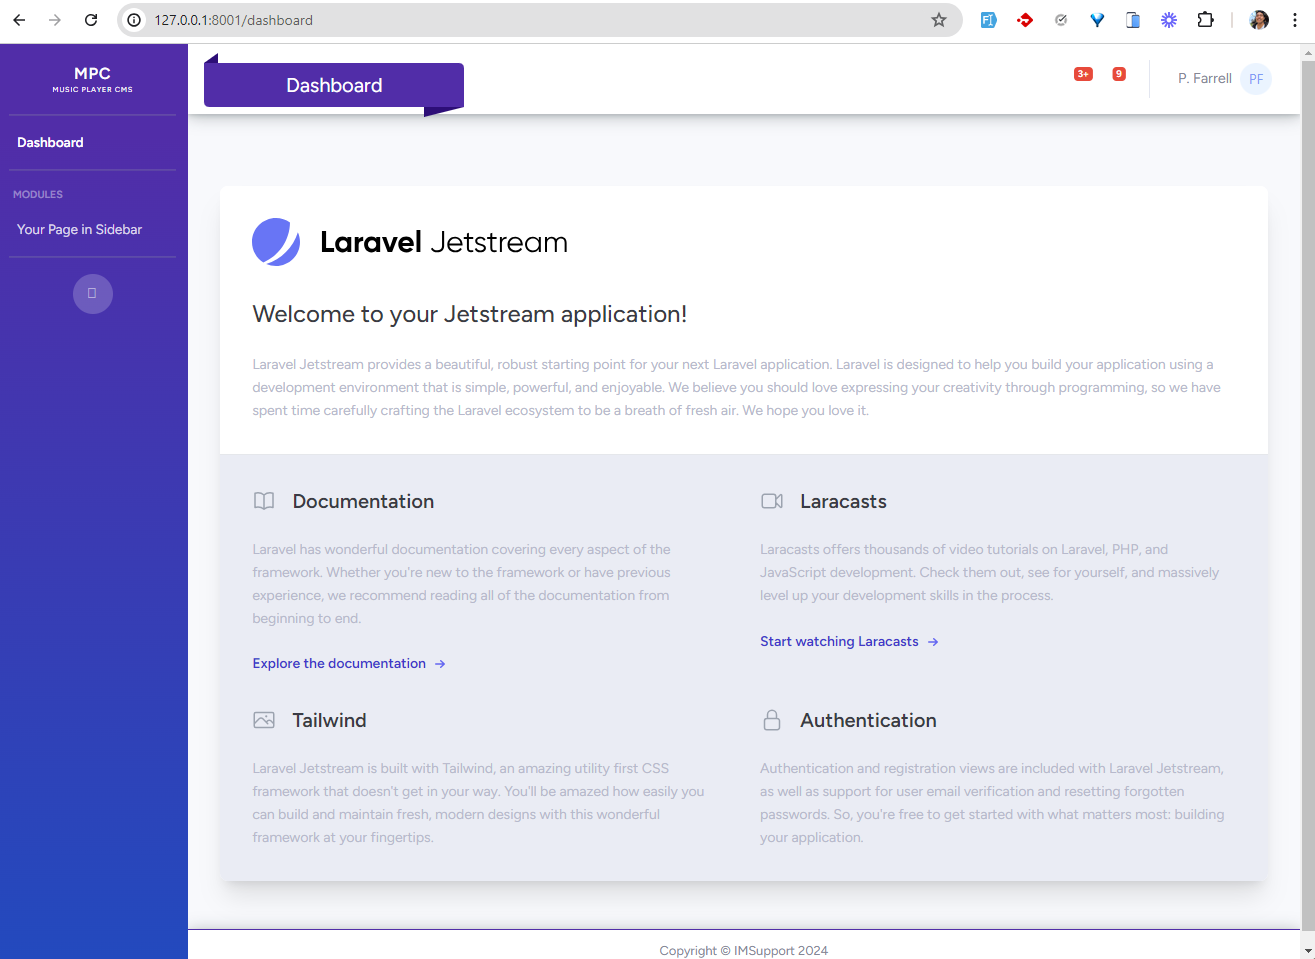
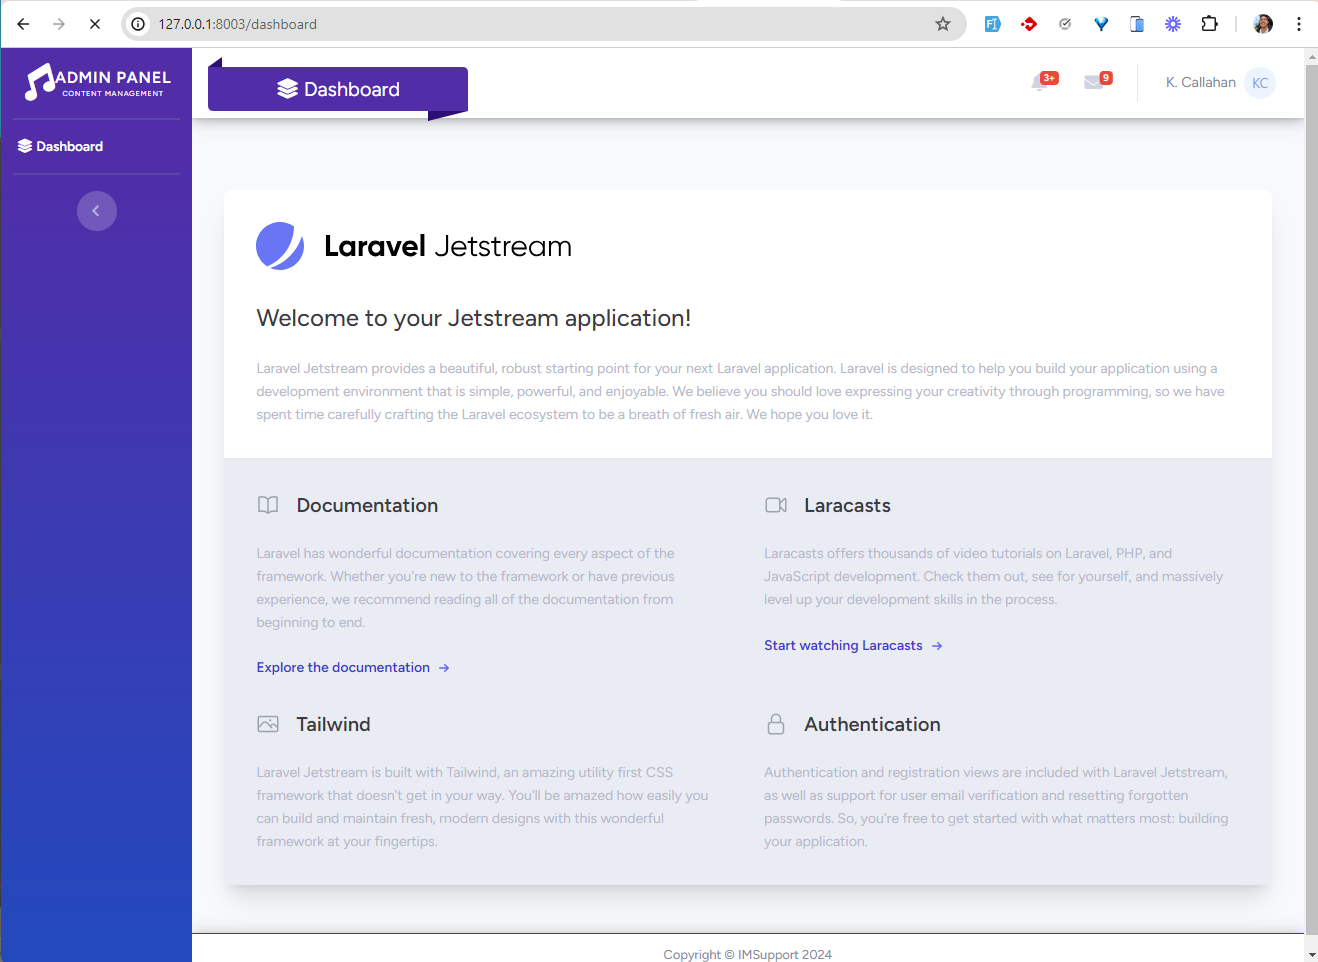
.

diff --git a/resources/Layouts/SidebarLayout.vue b/resources/Layouts/SidebarLayout.vue
@@ -6,7 +6,7 @@
         <div class="sidebar-brand-icon rotate-n-15">
             <i class="fa-solid fa-music"></i>
         </div>
-        <div class="sidebar-brand-text mx-0">ADMIN PANEL <sup><small>Content Management System</small></sup></div>
+        <div class="sidebar-brand-text mx-0">ADMIN PANEL <sup><small>Content Management</small></sup></div>
         </Link>
 
         <hr class="sidebar-divider my-0">
